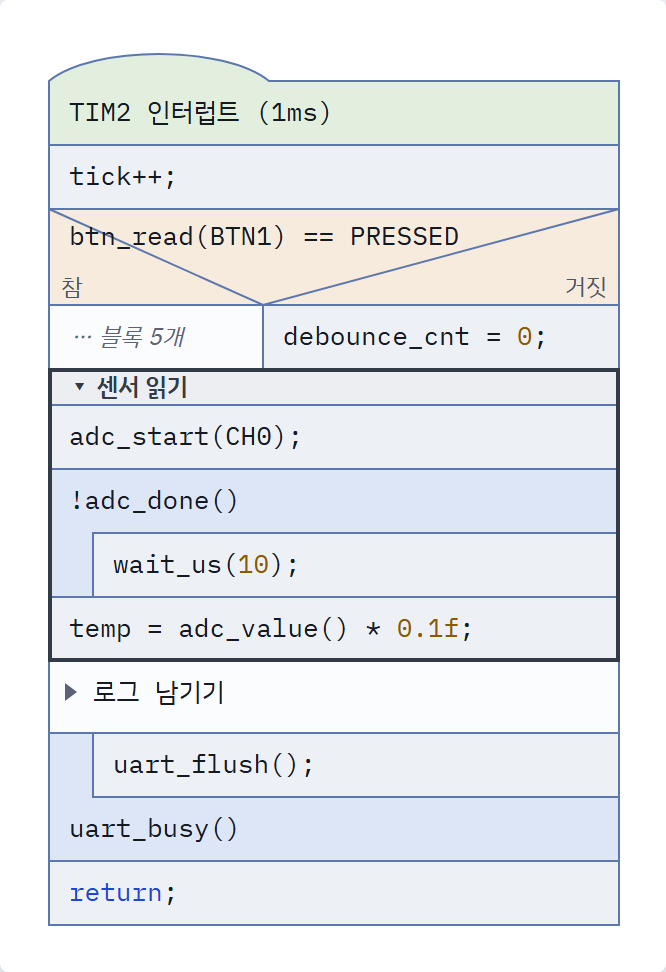
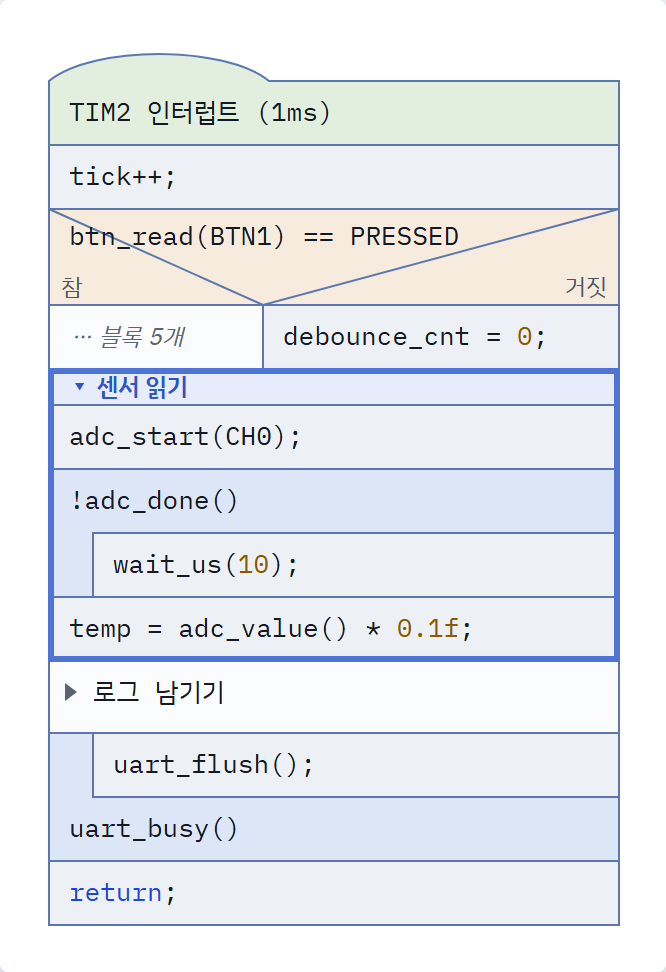
시각 디자인 명세 현행화(inbox, 메인테이너: 그 방향으로 지금 진행): 프로토타입 60번째 판 기준, 그림 여덟 장을 지금 색으로 다시 찍음(고른 표시 주황 · 접기 영역 파랑 3px), 7.2 그림 설명 고침, 제목처럼 머리의 글자 · 치수 · 아랫줄, 빈 갈래 ∅의 글자 역할, 두 키 조합 안내 상자의 모습과 나타나는 법, 구문 강조 갈래와 ADR-0032 링크, 날짜 꼬리표를 결정 링크로. 부채(확인해 주세요) · 프로토타입

Changed region(s): [[0.0601, 0.3704, 0.9309, 0.679]]

diff --git a/atelier/prototype.md b/atelier/prototype.md
@@ -71,7 +71,7 @@ updated: 2026-10-18
 
 ## 시험한 곳과 못 한 곳
 
-- [ ] 프로토타입 55번째 판도 시험 171개를 통과함(색과 테두리의 자리를 보던 검사 넷을 새 값으로 고쳐 씀). 54번째 판도 171개를 통과했었음. 화면은 찍어 보지 않았고, 시각 디자인 명세의 그림(`docs/02-ux-design/assets/`)은 아직 53번째 판의 색이다
+- [ ] 프로토타입 55번째 판도 시험 171개를 통과함(색과 테두리의 자리를 보던 검사 넷을 새 값으로 고쳐 씀). 54번째 판도 171개를 통과했었음. 시각 디자인 명세의 그림(`docs/02-ux-design/assets/`)은 2026-10-18에 60번째 판으로 다시 찍음(바뀐 것은 고른 표시 · 접기 영역의 색이 든 여덟 장). 찍은 그림 가운데 확인한 것은 범위를 고른 모습과 문서 층 그림 두 장뿐
 - [ ] 프로토타입 53번째 판은 헤드리스 Chrome 시험 171개를 통과함(색 · 굵기를 보던 검사 여섯을 새 값으로 고쳐 씀 + 새로 7개: 저장 파일의 이름 ariadne-nsd, 고른 표시에 바탕 없음, 저장 파일에 편집 층의 파랑 없음, 2px 선은 접기 영역의 색뿐, 작은 글자 12px, 캔버스 포커스 두 가지). 화면은 [[04-visual-design]]의 그림 열넷으로 찍어 봄. 마우스로 캔버스를 누른 뒤 `Tab`으로 다시 들어오는 경우는 실제 브라우저에서 보지 못함
 - [ ] 프로토타입 52번째 판은 헤드리스 Chrome 시험 164개를 통과함(새로 12개: `k`로 가장 왼쪽 갈래, `Esc` 한 번 · 두 번, 풀린 뒤 `j`, 빈 캔버스 클릭, 휠 한 칸, 터치패드처럼 작은 움직임이 쌓이는 것). 휠과 클릭은 스크립트가 만든 이벤트로만 시험함. 실제 마우스 휠, 터치패드, 화면이 따라 움직이는 모습, 스크롤 막대를 눌렀을 때 고른 것이 풀리지 않는지, 접힌 갈래 · 펴 보인 호출 블록 안의 If에서 `k`는 보지 않음. `k` 시험은 코드식 예제의 If 하나에서만 함 (보고: 2026-10-15)
 - [ ] 프로토타입 51번째 판은 헤드리스 Chrome 시험 152개를 통과함(막대를 보던 검사를 테두리로 고쳐 씀 + 겹친 테두리의 틈과 이 자리의 접기 영역 18개 + 블록 하나짜리 접기 영역, 판 번호, 점선의 자리 4개). 48번째 판에서 If의 갈래 안에 편 호출 블록을 네 배로 키워 바깥 선이 곧은 것을 보았고, 그 뒤 판은 찍어 보지 않음. 오른쪽 클릭 메뉴의 글자와 키 표시는 시험도 화면도 보지 않음. 화면은 퀵소트에서 `partition`을 펴고 접기 영역 둘을 둔 모습 한 장만 작게 봄. 확인하지 못한 곳: 화면을 키워서 선이 곧은지(시안 페이지에서만 네 배로 키워 봄), 겹쳐 편 호출 블록 안의 접기 영역, Case와 If의 갈래 안의 테두리, Raft 예제, 저장한 파일을 다시 열었을 때 이 자리의 접기 영역이 돌아오는지(파일에 들어가는 것까지만 확인함), 마우스 더블클릭으로 이 자리의 접기 영역을 접고 펴기, claude.ai 안에서의 동작 (보고: 2026-10-13)

diff --git a/atelier/debt.md b/atelier/debt.md
@@ -127,6 +127,10 @@ updated: 2026-10-18
 
 ### 시각 디자인
 
+- [ ] 시각 디자인 명세를 현행화하며 Claude가 정한 것 (2026-10-18) → [[04-visual-design]], [[2026-10-18-02-pages-visual-design]]. 메인테이너는 써 보았을 때의 느낌만 보면 됨
+	- 머리 모양 "제목처럼"(H1): 딱지는 보조 12px `text.muted`(시안 M24는 10.5px였으나 그림 안의 가장 작은 글자 12px 규칙을 따름), 이름은 본문 13px 굵게, 아랫줄은 구조선과 같은 1px `line.structure`(M24는 더 옅은 화면 구분선 색), 바탕 없음, 머리 높이 40px(딱지 줄 16 + 이름 줄 18 + 6), 글자는 다이어그램 왼쪽 선에 맞춤, 고르면 머리 전체를 두름
+	- 두 키 조합의 안내 상자(K1): 캔버스 아래 상태 줄 바로 위, 캔버스 폭만큼, 바탕 `ui.panel` · 테두리 1px `ui.line` · 모서리 6px · 여백 10px, 키는 고정폭 굵게 `ui.accent`, 0.4초 뒤 한 번에 나타남(서서히 나타나지 않음)
+	- 빈 갈래의 `∅`는 본문 크기의 도형, `text.muted`. 구문 강조의 네 갈래(ADR-0032)를 색 셋에 맞춤: 글자열과 숫자는 같은 `syntax.literal`
 - [ ] 접기 영역 색을 S3, 이어서 S1로 정하며 Claude가 정한 것 (2026-10-17) → [[04-visual-design#원칙 3. 문서의 표시와 편집의 표시는 다른 층이다]]
 	- 주황은 시안의 `#e8590c`가 반복 · 호출 블록 바탕 위에서 3:1에 못 미쳐(2.85:1) 같은 색상에서 조금 진한 `#d0500b`(`orange.600`)로 함
 	- 고른 표시만이 아니라 편집 층의 표시 넷(고른 것, 마우스 올림, 글자를 고치는 칸, 끌어 놓을 자리)을 모두 주황으로 바꿈. 화면의 포커스(`ui.accent`)는 파랑 그대로
